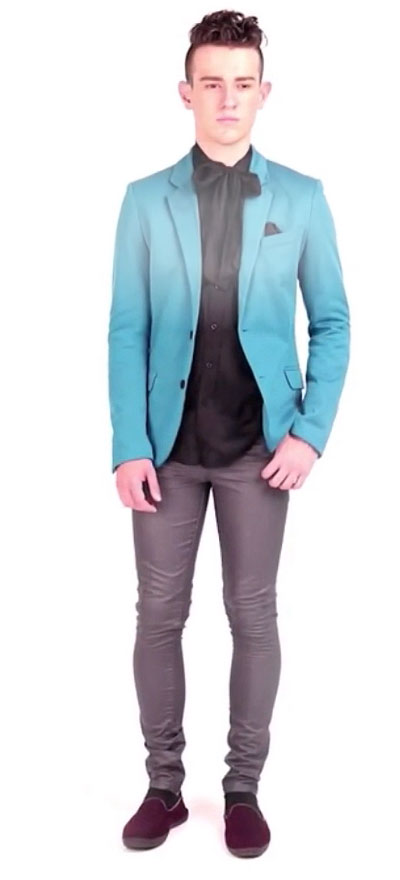
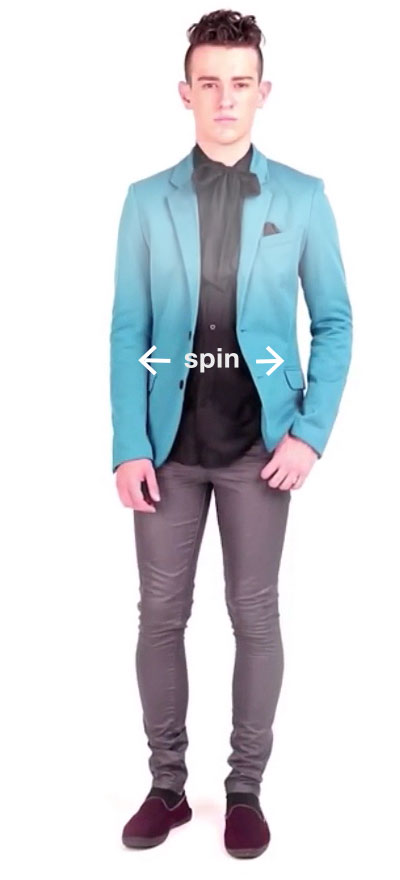
model

diff --git a/prince.html b/prince.html
@@ -11,12 +11,12 @@
 <body>
 
 	<div id="prince" class="page">
-  
-  <img class="cutout back animate" src="img/prince.png">      
-      
-  <div id="spin" class="interactive_3d middle">
+	
+	  <div id="spin" class="interactive_3d middle">
     <img src="img/spin/model_1.jpg">
   </div>
+  
+  <img class="cutout middle animate" style="height: 623px; width: 580px;" src="img/prince.png">      
   
   <h2 class="front animate title_hider">
     <span class="prince-title">The Prin</span>ce likes <span class="prince-title">an easy</span> target.</h2>
@@ -129,7 +129,7 @@
 <script>
   $(document).ready( function() {
     $("#spin").interactive_3d({
-      frames: 80,
+      frames: 136,
       cursor: "move",
       speed: 0,
       entrance: false,
